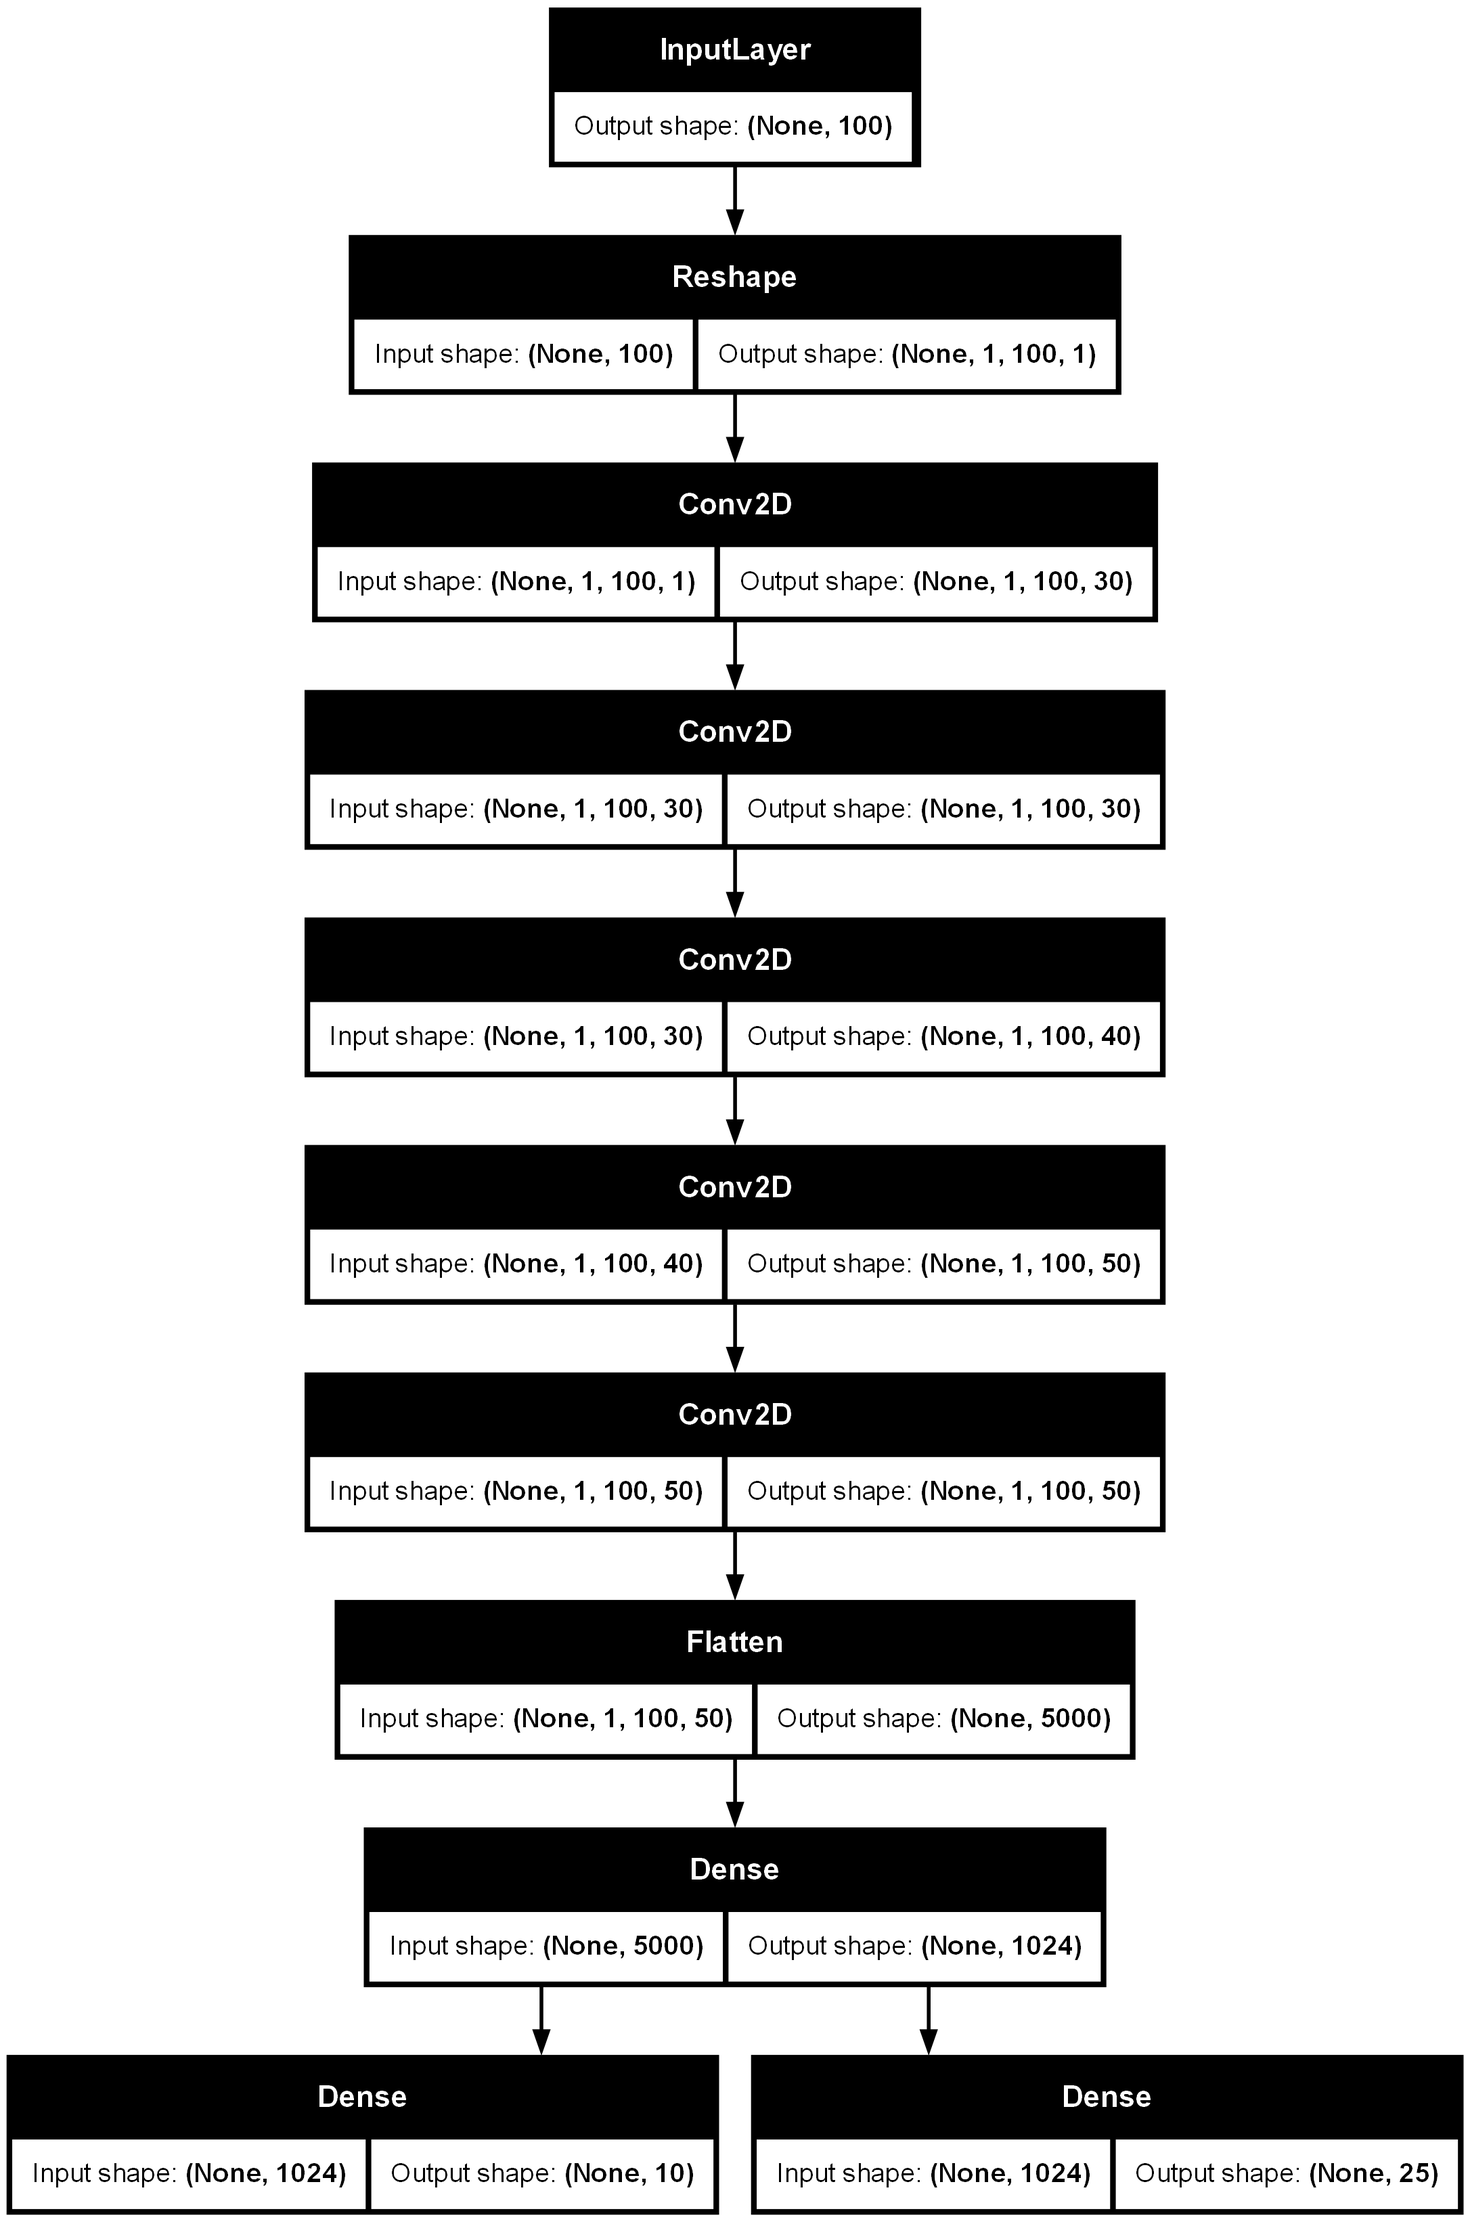
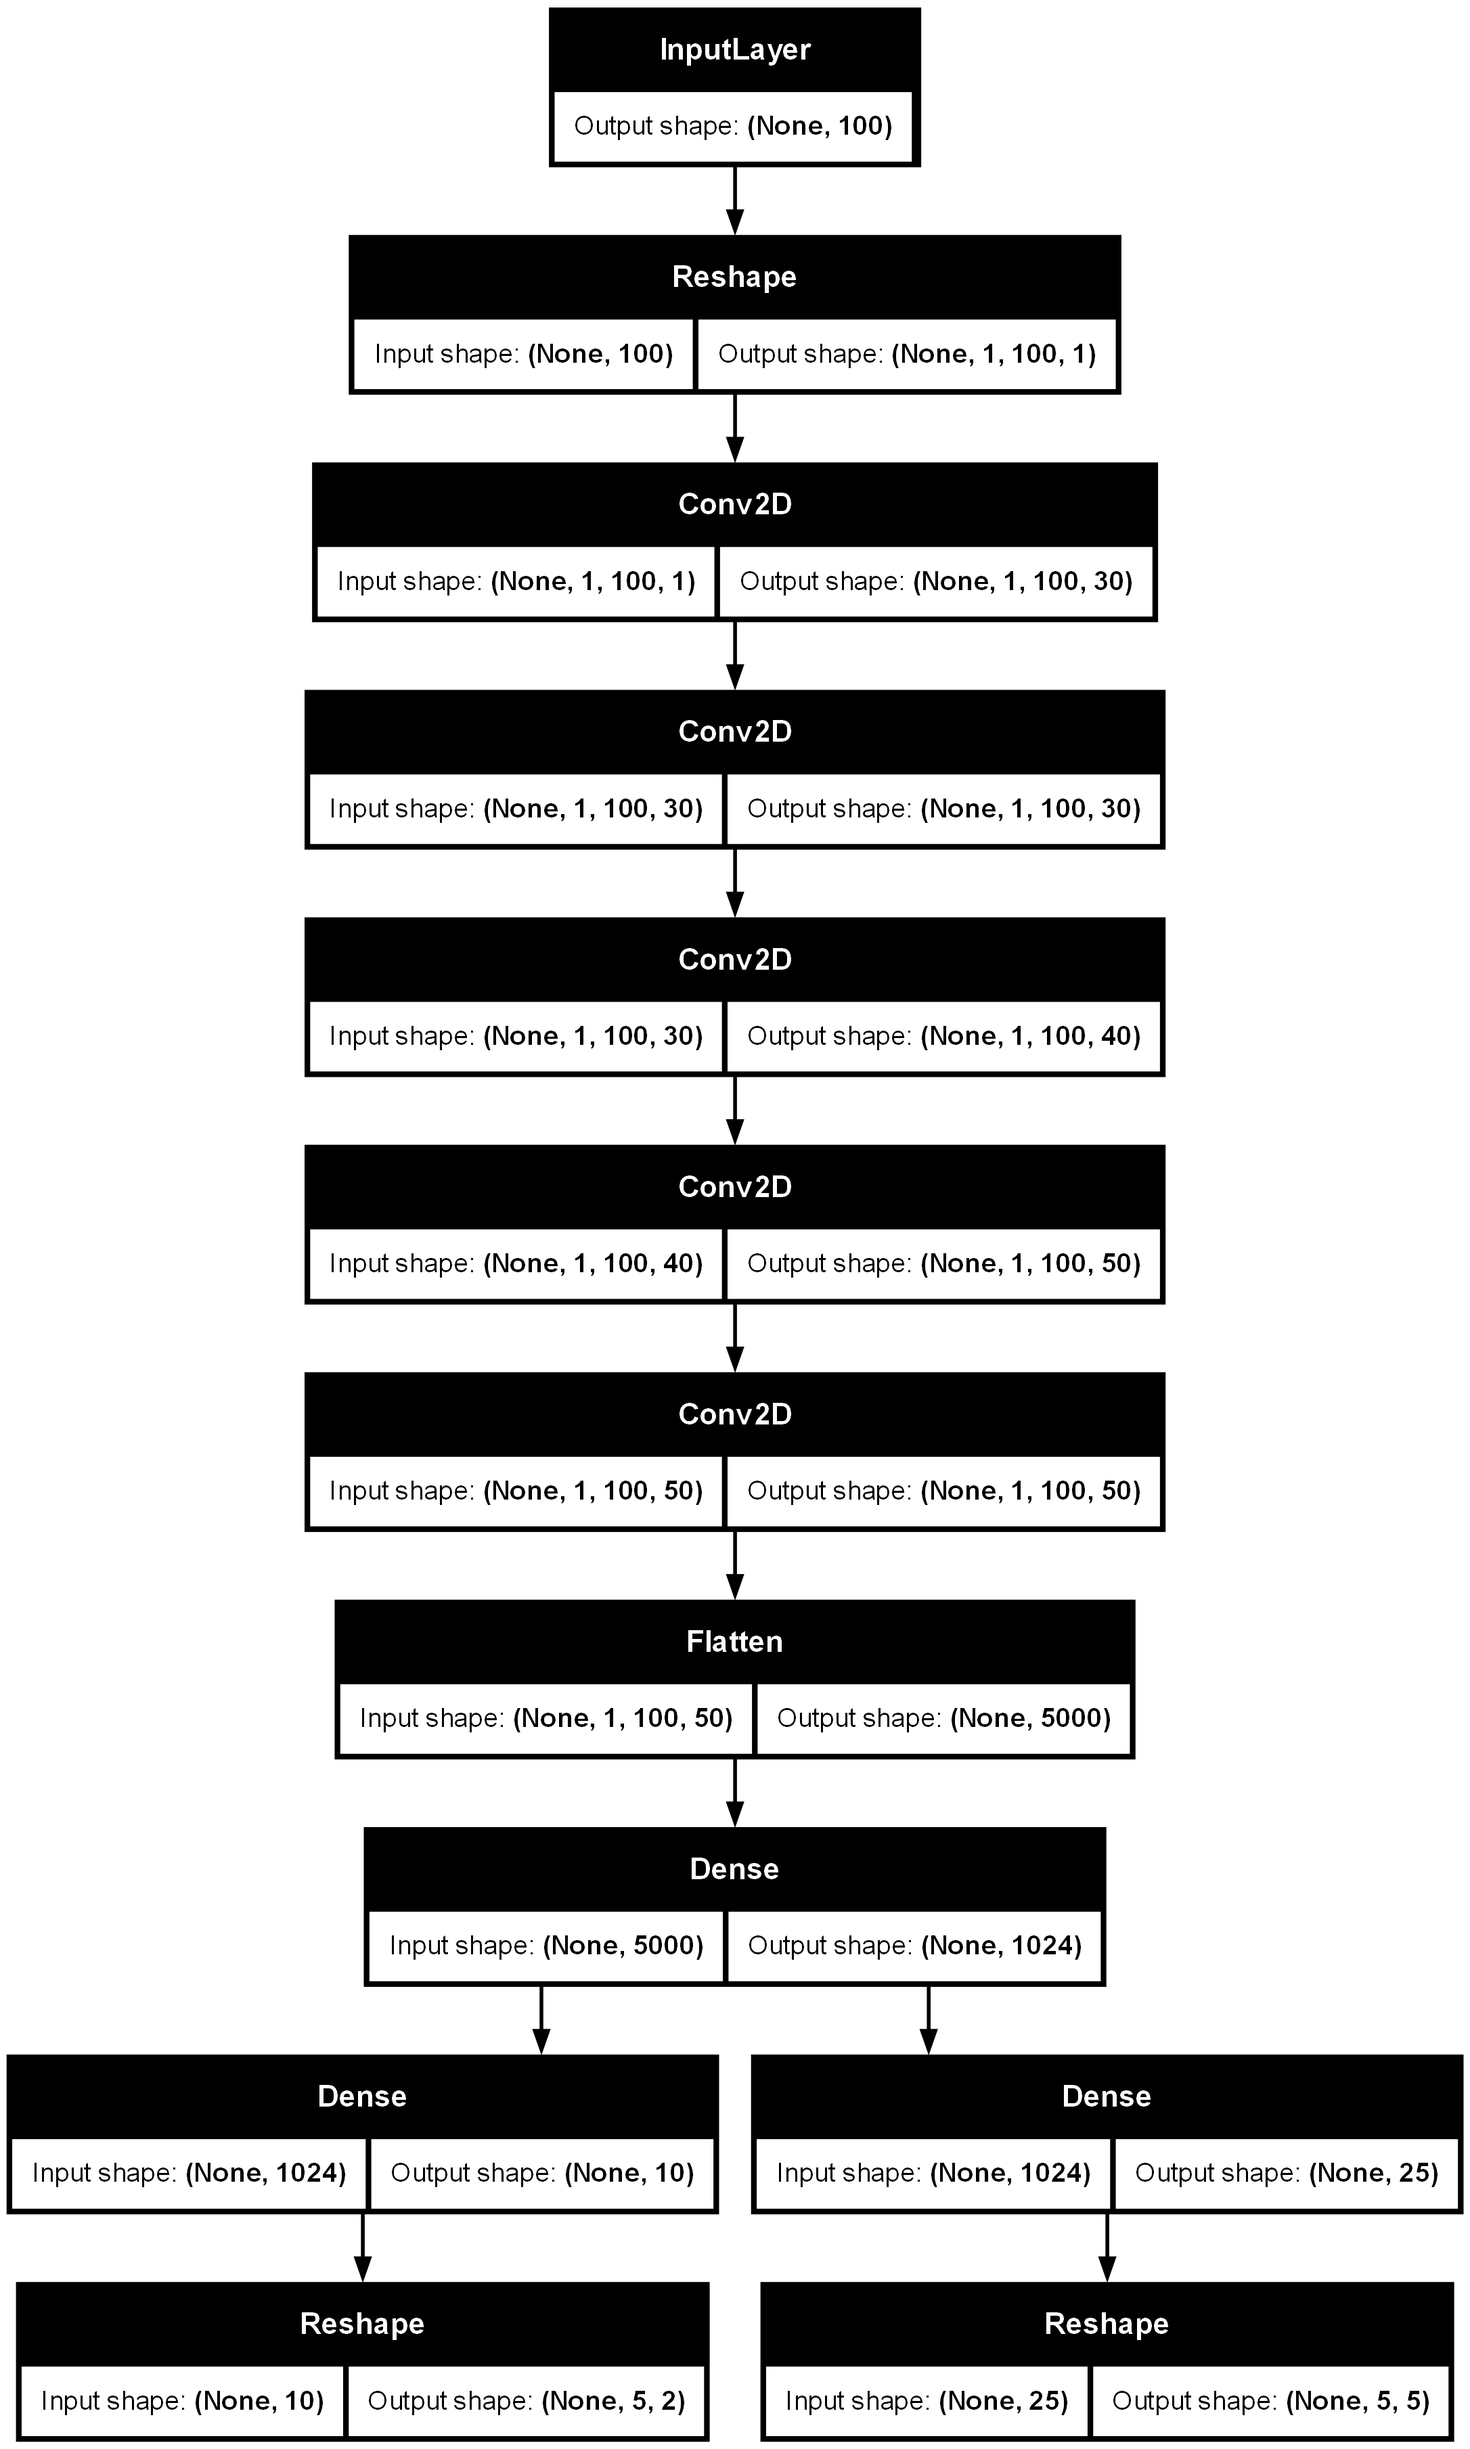
Refactor

diff --git a/adinilm/src/tf_nilm/models/simple_seq2point.py b/adinilm/src/tf_nilm/models/simple_seq2point.py
@@ -18,8 +18,11 @@ def create_model(input_window_length):
         conv_layer_5 = keras.layers.Convolution2D(filters=50, kernel_size=(5, 1), strides=(1, 1), padding="same", activation="relu")(conv_layer_4)
         flatten_layer = keras.layers.Flatten()(conv_layer_5)
         label_layer = keras.layers.Dense(1024, activation="relu")(flatten_layer)
-        output_layer_1 = keras.layers.Dense(2*5, activation="linear", name="y1_output")(label_layer)
-        output_layer_2 = keras.layers.Dense(5*5, activation="linear", name="y2_output")(label_layer)
+        output_layer_1 = keras.layers.Dense(2*5, activation="linear")(label_layer)
+        output_layer_2 = keras.layers.Dense(5*5, activation="linear")(label_layer)
+
+        output_layer_1 = keras.layers.Reshape((5, 2), name="y1_output")(output_layer_1)
+        output_layer_2 = keras.layers.Reshape((5, 5), name="y2_output")(output_layer_2)
 
         model = keras.Model(inputs=input_layer, outputs=[output_layer_1, output_layer_2])
         return model
@@ -102,8 +105,11 @@ def create_resnet_model(input_window_length):
         
         label_layer = keras.layers.Dense(256, activation="linear",
                                         kernel_initializer=init)(flatten_layer)
-        output_layer_1 = keras.layers.Dense(5*2, activation="sigmoid", name="y1_output")(label_layer)
-        output_layer_2 = keras.layers.Dense(5*5, activation="linear", name="y2_output")(label_layer)
+        output_layer_1 = keras.layers.Dense(5*2, activation="sigmoid")(label_layer)
+        output_layer_2 = keras.layers.Dense(5*5, activation="linear")(label_layer)
+
+        output_layer_1 = keras.layers.Reshape((5, 2), name="y1_output")(output_layer_1)
+        output_layer_2 = keras.layers.Reshape((5, 5), name="y2_output")(output_layer_2)
 
         model = keras.Model(inputs=input_layer, outputs=[output_layer_1, output_layer_2])
         return model

diff --git a/adinilm/src/tf_nilm/mains/train_seq2point.py b/adinilm/src/tf_nilm/mains/train_seq2point.py
@@ -46,23 +46,12 @@ def run_main():
 
 	logfile = logdir_ / "train.log"
 
-	x_train = np.load(PROFILE_PATH / "train" / "denoise_inputs.npy")
-	y_train = np.load(PROFILE_PATH / "train" / "states.npy")
-	z_train = np.load(PROFILE_PATH / "train" / "targets.npy")
 
-	indices = np.arange(x_train.shape[0])
-
-	train_data = NILMSeq2PointDataset(x_train, (y_train, z_train), seq_len=SEQ_LEN, indices=indices,
+	train_data = NILMSeq2PointDataset(PROFILE_PATH / "train", seq_len=SEQ_LEN,
 				batch_size=BATCH_SIZE,
 				sequence_strategy= MultitargetQuantileRegressionSeq2PointDataLoader)
-	
-	x_val = np.load(PROFILE_PATH / "val" / "denoise_inputs.npy")
-	y_val = np.load(PROFILE_PATH / "val" / "states.npy")
-	z_val = np.load(PROFILE_PATH / "val" / "targets.npy")
 
-	indices = np.arange(x_val.shape[0])
-
-	val_data = NILMSeq2PointDataset(x_val, (y_val, z_val), seq_len=SEQ_LEN, indices=indices,
+	val_data = NILMSeq2PointDataset(PROFILE_PATH / "test", seq_len=SEQ_LEN,
 				batch_size=BATCH_SIZE,
 				sequence_strategy= MultitargetQuantileRegressionSeq2PointDataLoader)
 

diff --git a/adinilm/src/tf_nilm/data_loader/seq2point_nilm.py b/adinilm/src/tf_nilm/data_loader/seq2point_nilm.py
@@ -2,13 +2,26 @@
 import sys, os
 import numpy as np
 import tensorflow as tf
+from pathlib import Path
 
 class NILMSeq2PointDataset(tf.keras.utils.Sequence):
 
-        def __init__(self, input, labels, seq_len, indices, sequence_strategy, batch_size=256, **kwargs):
+        def __init__(self, source, seq_len, sequence_strategy, batch_size=256, denoise=True, **kwargs):
                 super().__init__(**kwargs)
+
+                source = Path(source)
+
+                x = np.load(source / "denoise_inputs.npy" if denoise else "noise_inputs.npy")
+                y = np.load(source / "states.npy")
+                z = np.load(source / "targets.npy")
+
+                inputs = x
+                labels = (y, z)
+
+                indices = np.arange(x.shape[0])
+
                 self.batch_size = batch_size
-                self.backend = sequence_strategy(input, labels, seq_len)
+                self.backend = sequence_strategy(inputs, labels, seq_len)
 
         def __len__(self):
                 return len(self.backend) // self.batch_size

diff --git a/adinilm/src/tf_nilm/losses/multiactivationloss.py b/adinilm/src/tf_nilm/losses/multiactivationloss.py
@@ -4,16 +4,7 @@ import tensorflow as tf
 
 class MultiActivationLoss(tf.keras.losses.BinaryCrossentropy):
 
-	def call(self, y_true, y_pred):
+	def call(self, y_true, y_pred, **kwargs):
 		y_true = tf.cast(y_true, dtype=np.uint8)
-
-		pred_state = tf.reshape(y_pred, [-1, 5, 2])
 		true_state = tf.one_hot(y_true, depth=2)
-
-		# pred_state_softmax = tf.nn.softmax(pred_state, axis=2)
-		# pred_state_argmax = tf.argmax(pred_state_softmax, axis=2)
-
-		# pred_state_softmax = tf.cast(pred_state_softmax, np.float64)
-		loss_nll = super().call(true_state, pred_state)
-
-		return loss_nll
+		return super().call(true_state, y_pred, **kwargs)

diff --git a/adinilm/src/tf_nilm/losses/quantileloss.py b/adinilm/src/tf_nilm/losses/quantileloss.py
@@ -8,13 +8,13 @@ class QuantileLoss(tf.keras.Loss):
 		self.quantiles = quantiles
 
 	def call(self, y_true, y_pred):
-		pred_rms = tf.reshape(y_pred, [-1, 5, 5])
+		# pred_rms = tf.reshape(y_pred, [-1, 5, 5])
 
 		targets = tf.expand_dims(y_true, axis=1)
 		targets = tf.repeat(targets, repeats=[5], axis=1)
 
 		quantiles = tf.convert_to_tensor(self.quantiles, dtype=tf.float32)
 
-		error = tf.transpose((targets - pred_rms), perm=[0,2,1])
+		error = tf.transpose((targets - y_pred), perm=[0,2,1])
 		loss = tf.math.maximum(quantiles*error, (quantiles-1)*error)
 		return tf.reduce_mean(loss, axis=1)
